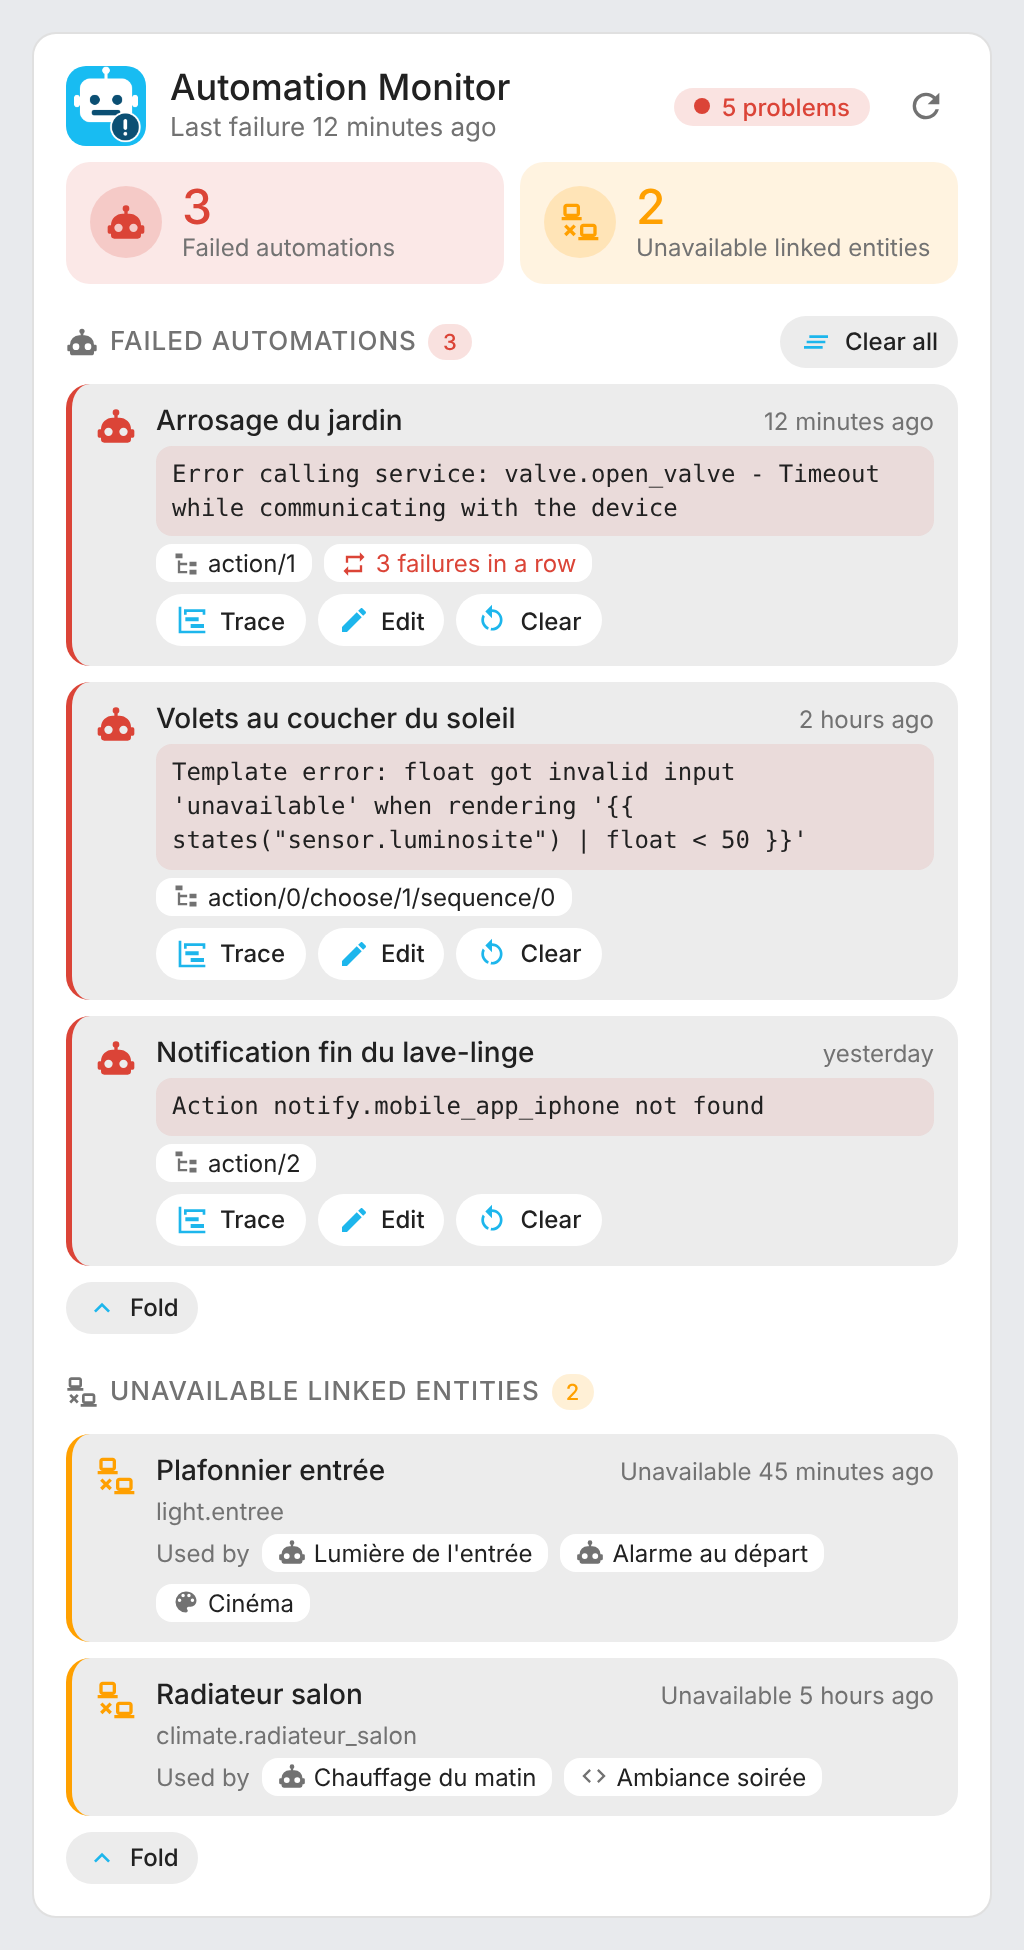
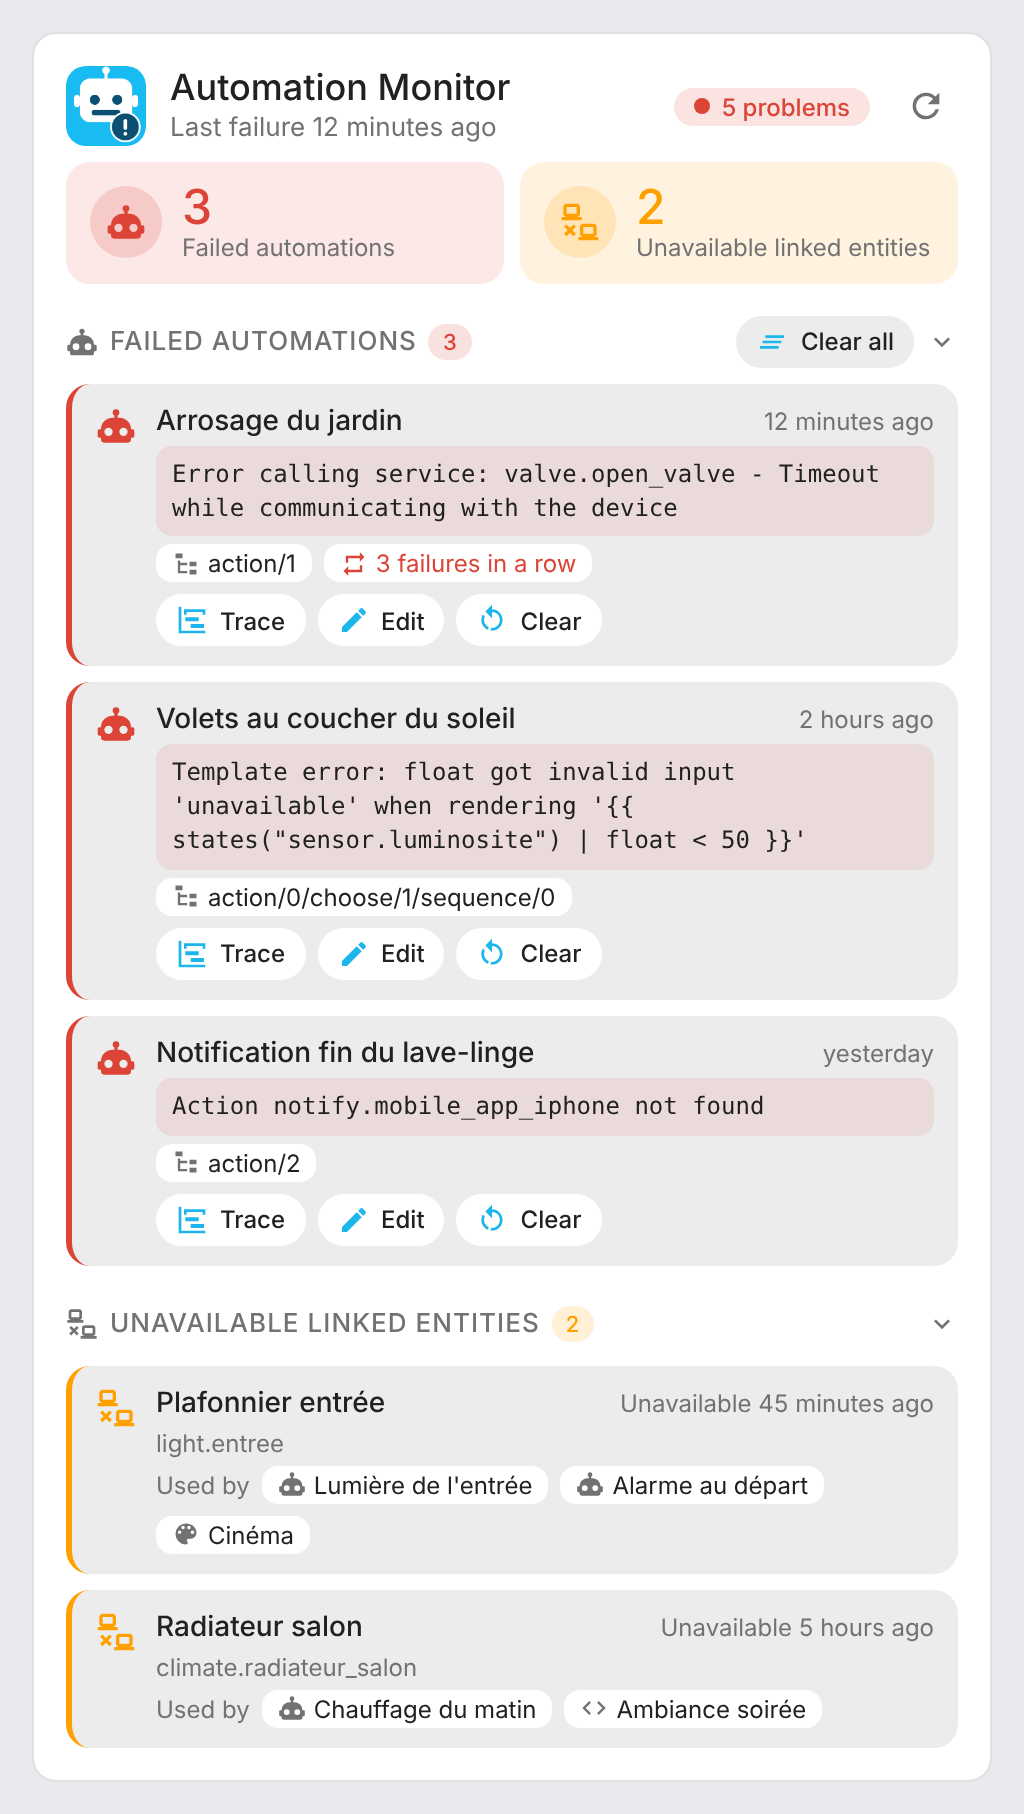
Release 1.4.0
Fold the lists like the Dockhand card: click the section title (chevron)
to fold or unfold, folded by default. New expand_failed / expand_linked
options replace collapse_failed / collapse_linked (collapse_*: false still
honoured).

Claude-Session: https://claude.ai/code/session_01T5gSvjcJk5PoeZQS3nFHLH

diff --git a/dist/automation-monitor-card.js b/dist/automation-monitor-card.js
@@ -7,7 +7,7 @@
  * translation_key), so the cards work whatever the Home Assistant language or entity ids.
  */
 
-const VERSION = "1.3.0";
+const VERSION = "1.4.0";
[1 lines of base64/hex data omitted]
 const INTEGRATION_SITE = "https://github.com/olli-dot-dev/ha-automation-monitor";
 const PLATFORM = "automation_monitor";
@@ -62,9 +62,6 @@ const STRINGS = {
     confirm_reset_all: "Clear all failed automations? They will be reported again on their next failure.",
     show_more: "Show {n} more",
     show_less: "Show less",
-    unfold_failed: "Show the {n} automations",
-    unfold_linked: "Show the {n} entities",
-    fold: "Fold",
     just_now: "just now",
     no_integration: "Automation Monitor not found. Is the Automation Monitor integration installed?",
     unavailable: "The Automation Monitor sensors are unavailable.",
@@ -74,8 +71,8 @@ const STRINGS = {
     show_logo: "Show Automation Monitor logo",
     show_failed: "Show failed automations",
     show_linked: "Show unavailable linked entities",
-    collapse_failed: "Fold the failed automations",
-    collapse_linked: "Fold the unavailable linked entities",
+    expand_failed: "Failed automations expanded by default",
+    expand_linked: "Unavailable linked entities expanded by default",
     show_controls: "Show clear buttons",
     show_details: "Show error details",
     max_items: "Items shown per list",
@@ -106,9 +103,6 @@ const STRINGS = {
     confirm_reset_all: "Effacer toutes les automatisations en échec ? Elles seront de nouveau signalées au prochain échec.",
     show_more: "Afficher {n} de plus",
     show_less: "Afficher moins",
-    unfold_failed: "Afficher les {n} automatisations",
-    unfold_linked: "Afficher les {n} entités",
-    fold: "Replier",
     just_now: "à l'instant",
     no_integration: "Automation Monitor introuvable. L'intégration Automation Monitor est-elle installée ?",
     unavailable: "Les capteurs d'Automation Monitor sont indisponibles.",
@@ -118,8 +112,8 @@ const STRINGS = {
     show_logo: "Afficher le logo Automation Monitor",
     show_failed: "Afficher les automatisations en échec",
     show_linked: "Afficher les entités liées indisponibles",
-    collapse_failed: "Replier les automatisations en échec",
-    collapse_linked: "Replier les entités liées indisponibles",
+    expand_failed: "Automatisations en échec dépliées par défaut",
+    expand_linked: "Entités liées indisponibles dépliées par défaut",
     show_controls: "Afficher les boutons Effacer",
     show_details: "Afficher le détail des erreurs",
     max_items: "Éléments affichés par liste",
@@ -290,6 +284,7 @@ class AutomationMonitorBase extends HTMLElement {
   setConfig(config) {
     if (!config) throw new Error("Invalid configuration");
     this._config = { ...config };
+    this._folds = {};
     this._html = "";
     this._update();
   }
@@ -326,6 +321,10 @@ class AutomationMonitorBase extends HTMLElement {
     ev.stopPropagation();
     const { action, entity, label, path } = el.dataset;
     if (path) return navigate(path);
+    if (action === "fold") {
+      this._folds = { ...this._folds, [el.dataset.section]: !this._isOpen(el.dataset.section) };
+      return this._update();
+    }
     if (action === "expand") {
       this._expanded = { ...this._expanded, [entity]: !this._expanded[entity] };
       return this._update();
@@ -429,6 +428,10 @@ const FULL_STYLE = `
                           background: color-mix(in srgb, var(--c) 16%, transparent); color: var(--c); }
   .section-title .spacer { flex: 1; }
   .section-title .btn { text-transform: none; letter-spacing: 0; }
+  .section-title.fold { cursor: pointer; user-select: none; }
+  .section-title .chevron { transition: transform .2s ease; }
+  .section-title.closed { margin-bottom: 0; }
+  .section-title.closed .chevron { transform: rotate(-90deg); }
   .items { display: flex; flex-direction: column; gap: 8px; }
   .item { display: flex; gap: 10px; padding: 10px 12px; border-radius: 12px; min-width: 0;
           background: var(--secondary-background-color, rgba(127,127,127,.08)); border-left: 3px solid var(--c); }
@@ -454,8 +457,6 @@ const FULL_STYLE = `
   .item .btn { background: var(--card-background-color, rgba(127,127,127,.12)); }
   .used { font-size: 12px; color: var(--secondary-text-color); }
   .more { align-self: center; }
-  .fold { align-self: flex-start; }
-  .items + .items { margin-top: 8px; }
 `;
 
 class AutomationMonitorCard extends AutomationMonitorBase {
@@ -508,20 +509,20 @@ class AutomationMonitorCard extends AutomationMonitorBase {
     return `<div class="items">${shown.map(renderItem).join("")}${more}</div>`;
   }
 
-  // When a list has several items it is folded by default (unless the option is false): one click unfolds it.
-  _foldable(key, items, option, label, renderItem) {
-    if (items.length < 2 || option === false) return this._list(key, items, renderItem);
-    const open = this._expanded[`${key}_open`];
-    const toggle = `<div class="items"><button class="btn fold" data-action="expand" data-entity="${key}_open">${svgIcon(
-      open ? ICONS.chevron_up : ICONS.chevron_down
-    )}<span>${esc(open ? this._t("fold") : this._t(label, { n: items.length }))}</span></button></div>`;
-    return open ? `${this._list(key, items, renderItem)}${toggle}` : toggle;
+  // Lists are collapsed until their title is clicked, unless expand_<key> is set
+  // (collapse_<key>: false, the former option, is still honoured).
+  _isOpen(key) {
+    return this._folds?.[key] ?? (this._config[`expand_${key}`] === true || this._config[`collapse_${key}`] === false);
   }
 
-  _sectionTitle(icon, label, n, cls, button) {
-    return `<div class="section-title">${svgIcon(icon)}<span>${esc(label)}</span>${
-      n ? `<span class="count ${cls}">${n}</span>` : ""
-    }<span class="spacer"></span>${button || ""}</div>`;
+  _section(key, icon, label, items, cls, renderItem, button) {
+    const open = this._isOpen(key);
+    return `<div>
+      <div class="section-title fold ${open ? "" : "closed"}" data-action="fold" data-section="${key}">${svgIcon(icon)}<span>${esc(label)}</span><span class="count ${cls}">${
+      items.length
+    }</span><span class="spacer"></span>${button || ""}${svgIcon(ICONS.chevron_down, "chevron")}</div>
+      ${open ? this._list(key, items, renderItem) : ""}
+    </div>`;
   }
 
   _failedSection(data) {
@@ -530,10 +531,9 @@ class AutomationMonitorCard extends AutomationMonitorBase {
       controls && data.failures.length
         ? `<button class="btn" data-action="reset_all" title="${esc(this._t("reset_all"))}">${svgIcon(ICONS.clear)}<span>${esc(this._t("reset_all"))}</span></button>`
         : "";
-    const title = this._sectionTitle(ICONS.robot_alert, this._t("failed_automations"), data.failures.length, "crit", button);
     // Nothing to list: the counter above already says so.
     if (!data.failures.length) return "";
-    return `<div>${title}${this._foldable("failed", data.failures, this._config.collapse_failed, "unfold_failed", (a) => this._failure(a, controls))}</div>`;
+    return this._section("failed", ICONS.robot_alert, this._t("failed_automations"), data.failures, "crit", (a) => this._failure(a, controls), button);
   }
 
   _failure(a, controls) {
@@ -568,9 +568,8 @@ class AutomationMonitorCard extends AutomationMonitorBase {
   }
 
   _linkedSection(data) {
-    const title = this._sectionTitle(ICONS.disconnect, this._t("linked_unavailable"), data.linked.length, "warn");
     if (!data.linked.length) return "";
-    return `<div>${title}${this._foldable("linked", data.linked, this._config.collapse_linked, "unfold_linked", (e) => this._linked(e))}</div>`;
+    return this._section("linked", ICONS.disconnect, this._t("linked_unavailable"), data.linked, "warn", (e) => this._linked(e));
   }
 
   _linked(e) {
@@ -749,7 +748,7 @@ class AutomationMonitorEditorBase extends HTMLElement {
 
 class AutomationMonitorCardEditor extends AutomationMonitorEditorBase {
   static get toggles() {
-    return [...super.toggles, ["collapse_failed", true], ["collapse_linked", true], ["show_details", true], ["show_controls", true]];
+    return [...super.toggles, ["expand_failed", false], ["expand_linked", false], ["show_details", true], ["show_controls", true]];
   }
 
   static extraFields() {

diff --git a/src/automation-monitor-card.js b/src/automation-monitor-card.js
@@ -62,9 +62,6 @@ const STRINGS = {
     confirm_reset_all: "Clear all failed automations? They will be reported again on their next failure.",
     show_more: "Show {n} more",
     show_less: "Show less",
-    unfold_failed: "Show the {n} automations",
-    unfold_linked: "Show the {n} entities",
-    fold: "Fold",
     just_now: "just now",
     no_integration: "Automation Monitor not found. Is the Automation Monitor integration installed?",
     unavailable: "The Automation Monitor sensors are unavailable.",
@@ -74,8 +71,8 @@ const STRINGS = {
     show_logo: "Show Automation Monitor logo",
     show_failed: "Show failed automations",
     show_linked: "Show unavailable linked entities",
-    collapse_failed: "Fold the failed automations",
-    collapse_linked: "Fold the unavailable linked entities",
+    expand_failed: "Failed automations expanded by default",
+    expand_linked: "Unavailable linked entities expanded by default",
     show_controls: "Show clear buttons",
     show_details: "Show error details",
     max_items: "Items shown per list",
@@ -106,9 +103,6 @@ const STRINGS = {
     confirm_reset_all: "Effacer toutes les automatisations en échec ? Elles seront de nouveau signalées au prochain échec.",
     show_more: "Afficher {n} de plus",
     show_less: "Afficher moins",
-    unfold_failed: "Afficher les {n} automatisations",
-    unfold_linked: "Afficher les {n} entités",
-    fold: "Replier",
     just_now: "à l'instant",
     no_integration: "Automation Monitor introuvable. L'intégration Automation Monitor est-elle installée ?",
     unavailable: "Les capteurs d'Automation Monitor sont indisponibles.",
@@ -118,8 +112,8 @@ const STRINGS = {
     show_logo: "Afficher le logo Automation Monitor",
     show_failed: "Afficher les automatisations en échec",
     show_linked: "Afficher les entités liées indisponibles",
-    collapse_failed: "Replier les automatisations en échec",
-    collapse_linked: "Replier les entités liées indisponibles",
+    expand_failed: "Automatisations en échec dépliées par défaut",
+    expand_linked: "Entités liées indisponibles dépliées par défaut",
     show_controls: "Afficher les boutons Effacer",
     show_details: "Afficher le détail des erreurs",
     max_items: "Éléments affichés par liste",
@@ -290,6 +284,7 @@ class AutomationMonitorBase extends HTMLElement {
   setConfig(config) {
     if (!config) throw new Error("Invalid configuration");
     this._config = { ...config };
+    this._folds = {};
     this._html = "";
     this._update();
   }
@@ -326,6 +321,10 @@ class AutomationMonitorBase extends HTMLElement {
     ev.stopPropagation();
     const { action, entity, label, path } = el.dataset;
     if (path) return navigate(path);
+    if (action === "fold") {
+      this._folds = { ...this._folds, [el.dataset.section]: !this._isOpen(el.dataset.section) };
+      return this._update();
+    }
     if (action === "expand") {
       this._expanded = { ...this._expanded, [entity]: !this._expanded[entity] };
       return this._update();
@@ -429,6 +428,10 @@ const FULL_STYLE = `
                           background: color-mix(in srgb, var(--c) 16%, transparent); color: var(--c); }
   .section-title .spacer { flex: 1; }
   .section-title .btn { text-transform: none; letter-spacing: 0; }
+  .section-title.fold { cursor: pointer; user-select: none; }
+  .section-title .chevron { transition: transform .2s ease; }
+  .section-title.closed { margin-bottom: 0; }
+  .section-title.closed .chevron { transform: rotate(-90deg); }
   .items { display: flex; flex-direction: column; gap: 8px; }
   .item { display: flex; gap: 10px; padding: 10px 12px; border-radius: 12px; min-width: 0;
           background: var(--secondary-background-color, rgba(127,127,127,.08)); border-left: 3px solid var(--c); }
@@ -454,8 +457,6 @@ const FULL_STYLE = `
   .item .btn { background: var(--card-background-color, rgba(127,127,127,.12)); }
   .used { font-size: 12px; color: var(--secondary-text-color); }
   .more { align-self: center; }
-  .fold { align-self: flex-start; }
-  .items + .items { margin-top: 8px; }
 `;
 
 class AutomationMonitorCard extends AutomationMonitorBase {
@@ -508,20 +509,20 @@ class AutomationMonitorCard extends AutomationMonitorBase {
     return `<div class="items">${shown.map(renderItem).join("")}${more}</div>`;
   }
 
-  // When a list has several items it is folded by default (unless the option is false): one click unfolds it.
-  _foldable(key, items, option, label, renderItem) {
-    if (items.length < 2 || option === false) return this._list(key, items, renderItem);
-    const open = this._expanded[`${key}_open`];
-    const toggle = `<div class="items"><button class="btn fold" data-action="expand" data-entity="${key}_open">${svgIcon(
-      open ? ICONS.chevron_up : ICONS.chevron_down
-    )}<span>${esc(open ? this._t("fold") : this._t(label, { n: items.length }))}</span></button></div>`;
-    return open ? `${this._list(key, items, renderItem)}${toggle}` : toggle;
+  // Lists are collapsed until their title is clicked, unless expand_<key> is set
+  // (collapse_<key>: false, the former option, is still honoured).
+  _isOpen(key) {
+    return this._folds?.[key] ?? (this._config[`expand_${key}`] === true || this._config[`collapse_${key}`] === false);
   }
 
-  _sectionTitle(icon, label, n, cls, button) {
-    return `<div class="section-title">${svgIcon(icon)}<span>${esc(label)}</span>${
-      n ? `<span class="count ${cls}">${n}</span>` : ""
-    }<span class="spacer"></span>${button || ""}</div>`;
+  _section(key, icon, label, items, cls, renderItem, button) {
+    const open = this._isOpen(key);
+    return `<div>
+      <div class="section-title fold ${open ? "" : "closed"}" data-action="fold" data-section="${key}">${svgIcon(icon)}<span>${esc(label)}</span><span class="count ${cls}">${
+      items.length
+    }</span><span class="spacer"></span>${button || ""}${svgIcon(ICONS.chevron_down, "chevron")}</div>
+      ${open ? this._list(key, items, renderItem) : ""}
+    </div>`;
   }
 
   _failedSection(data) {
@@ -530,10 +531,9 @@ class AutomationMonitorCard extends AutomationMonitorBase {
       controls && data.failures.length
         ? `<button class="btn" data-action="reset_all" title="${esc(this._t("reset_all"))}">${svgIcon(ICONS.clear)}<span>${esc(this._t("reset_all"))}</span></button>`
         : "";
-    const title = this._sectionTitle(ICONS.robot_alert, this._t("failed_automations"), data.failures.length, "crit", button);
     // Nothing to list: the counter above already says so.
     if (!data.failures.length) return "";
-    return `<div>${title}${this._foldable("failed", data.failures, this._config.collapse_failed, "unfold_failed", (a) => this._failure(a, controls))}</div>`;
+    return this._section("failed", ICONS.robot_alert, this._t("failed_automations"), data.failures, "crit", (a) => this._failure(a, controls), button);
   }
 
   _failure(a, controls) {
@@ -568,9 +568,8 @@ class AutomationMonitorCard extends AutomationMonitorBase {
   }
 
   _linkedSection(data) {
-    const title = this._sectionTitle(ICONS.disconnect, this._t("linked_unavailable"), data.linked.length, "warn");
     if (!data.linked.length) return "";
-    return `<div>${title}${this._foldable("linked", data.linked, this._config.collapse_linked, "unfold_linked", (e) => this._linked(e))}</div>`;
+    return this._section("linked", ICONS.disconnect, this._t("linked_unavailable"), data.linked, "warn", (e) => this._linked(e));
   }
 
   _linked(e) {
@@ -749,7 +748,7 @@ class AutomationMonitorEditorBase extends HTMLElement {
 
 class AutomationMonitorCardEditor extends AutomationMonitorEditorBase {
   static get toggles() {
-    return [...super.toggles, ["collapse_failed", true], ["collapse_linked", true], ["show_details", true], ["show_controls", true]];
+    return [...super.toggles, ["expand_failed", false], ["expand_linked", false], ["show_details", true], ["show_controls", true]];
   }
 
   static extraFields() {

diff --git a/README.md b/README.md
@@ -28,7 +28,7 @@ The cards are built on top of the Automation Monitor integration: its two sensor
 - **Clear** a failure (or **Clear all**) with the integration's `automation_monitor.reset` action, with confirmation
 - Unavailable linked entities: name, entity id, how long it has been unavailable and the automations, scripts and scenes that use it (click one to open its editor)
 - **Refresh** button in the header of both cards, always visible, rebuilding the list of linked entities (`automation_monitor.rebuild_linked_entities`)
-- Lists with several items are folded by default and unfold in one click; long lists are cut to a configurable number of items, with a "Show more" button
+- Failed automations and unavailable linked entities are folded by default: click the section title to unfold them; long lists are cut to a configurable number of items, with a "Show more" button
 - Click a counter, an automation or an entity to open its Home Assistant more-info dialog
 - Click the Automation Monitor logo to open the [integration's page](https://github.com/olli-dot-dev/ha-automation-monitor)
 - Visual editor in the dashboard UI for both cards (no YAML needed)
@@ -69,7 +69,7 @@ Or manually:
 
 ### Visual editor
 
-Edit a dashboard, click **Add card** and search for **Automation Monitor Card** or **Automation Monitor Mini Card**. There is nothing to pick: the sensors of the integration are found automatically. Set an optional title, choose the sections to display, whether lists are folded, the action buttons, the number of items per list and the language. The preview updates live, and options left at their default are kept out of the generated YAML.
+Edit a dashboard, click **Add card** and search for **Automation Monitor Card** or **Automation Monitor Mini Card**. There is nothing to pick: the sensors of the integration are found automatically. Set an optional title, choose the sections to display, whether lists are expanded by default, the action buttons, the number of items per list and the language. The preview updates live, and options left at their default are kept out of the generated YAML.
 
 ### Minimal
 
@@ -89,8 +89,8 @@ title: Automations
 show_logo: true
 show_failed: true
 show_linked: true
-collapse_failed: true
-collapse_linked: true
+expand_failed: false
+expand_linked: false
 show_details: true
 show_controls: true
 max_items: 5
@@ -114,8 +114,8 @@ language: fr
 | `show_logo` | both | `true` | Show the Automation Monitor logo (opens the [integration's page](https://github.com/olli-dot-dev/ha-automation-monitor) in a new tab) |
 | `show_failed` | both | `true` | Failed automations (counter and list) |
 | `show_linked` | both | `true` | Unavailable linked entities (counter and list) |
-| `collapse_failed` | full | `true` | Fold the failed automations when there are several (one click unfolds them); `false` always shows them |
-| `collapse_linked` | full | `true` | Fold the unavailable linked entities when there are several (one click unfolds them); `false` always shows them |
+| `expand_failed` | full | `false` | Failed automations expanded when the card loads (click the section title to fold / unfold) |
+| `expand_linked` | full | `false` | Unavailable linked entities expanded when the card loads (click the section title to fold / unfold) |
 | `show_details` | full | `true` | Error message of each failed automation |
 | `show_controls` | full | `true` | Clear and Clear all buttons (the Trace and Edit links and the Refresh button are always shown) |
 | `max_items` | full | `5` | Items shown per list before the "Show more" button |

diff --git a/CHANGELOG.md b/CHANGELOG.md
@@ -1,5 +1,12 @@
 # Changelog
 
+## 1.4.0
+
+### ✨ Features
+
+- Same folding as the Dockhand card: Failed automations and Unavailable linked entities are folded by default, even with a single item; click the section title (with its chevron) to fold or unfold. The Show / Fold buttons are gone.
+- New `expand_failed` and `expand_linked` options (also in the visual editor) keep a list expanded. They replace `collapse_failed` / `collapse_linked`; `collapse_*: false` is still honoured.
+
 ## 1.3.0
 
 ### ✨ Features
